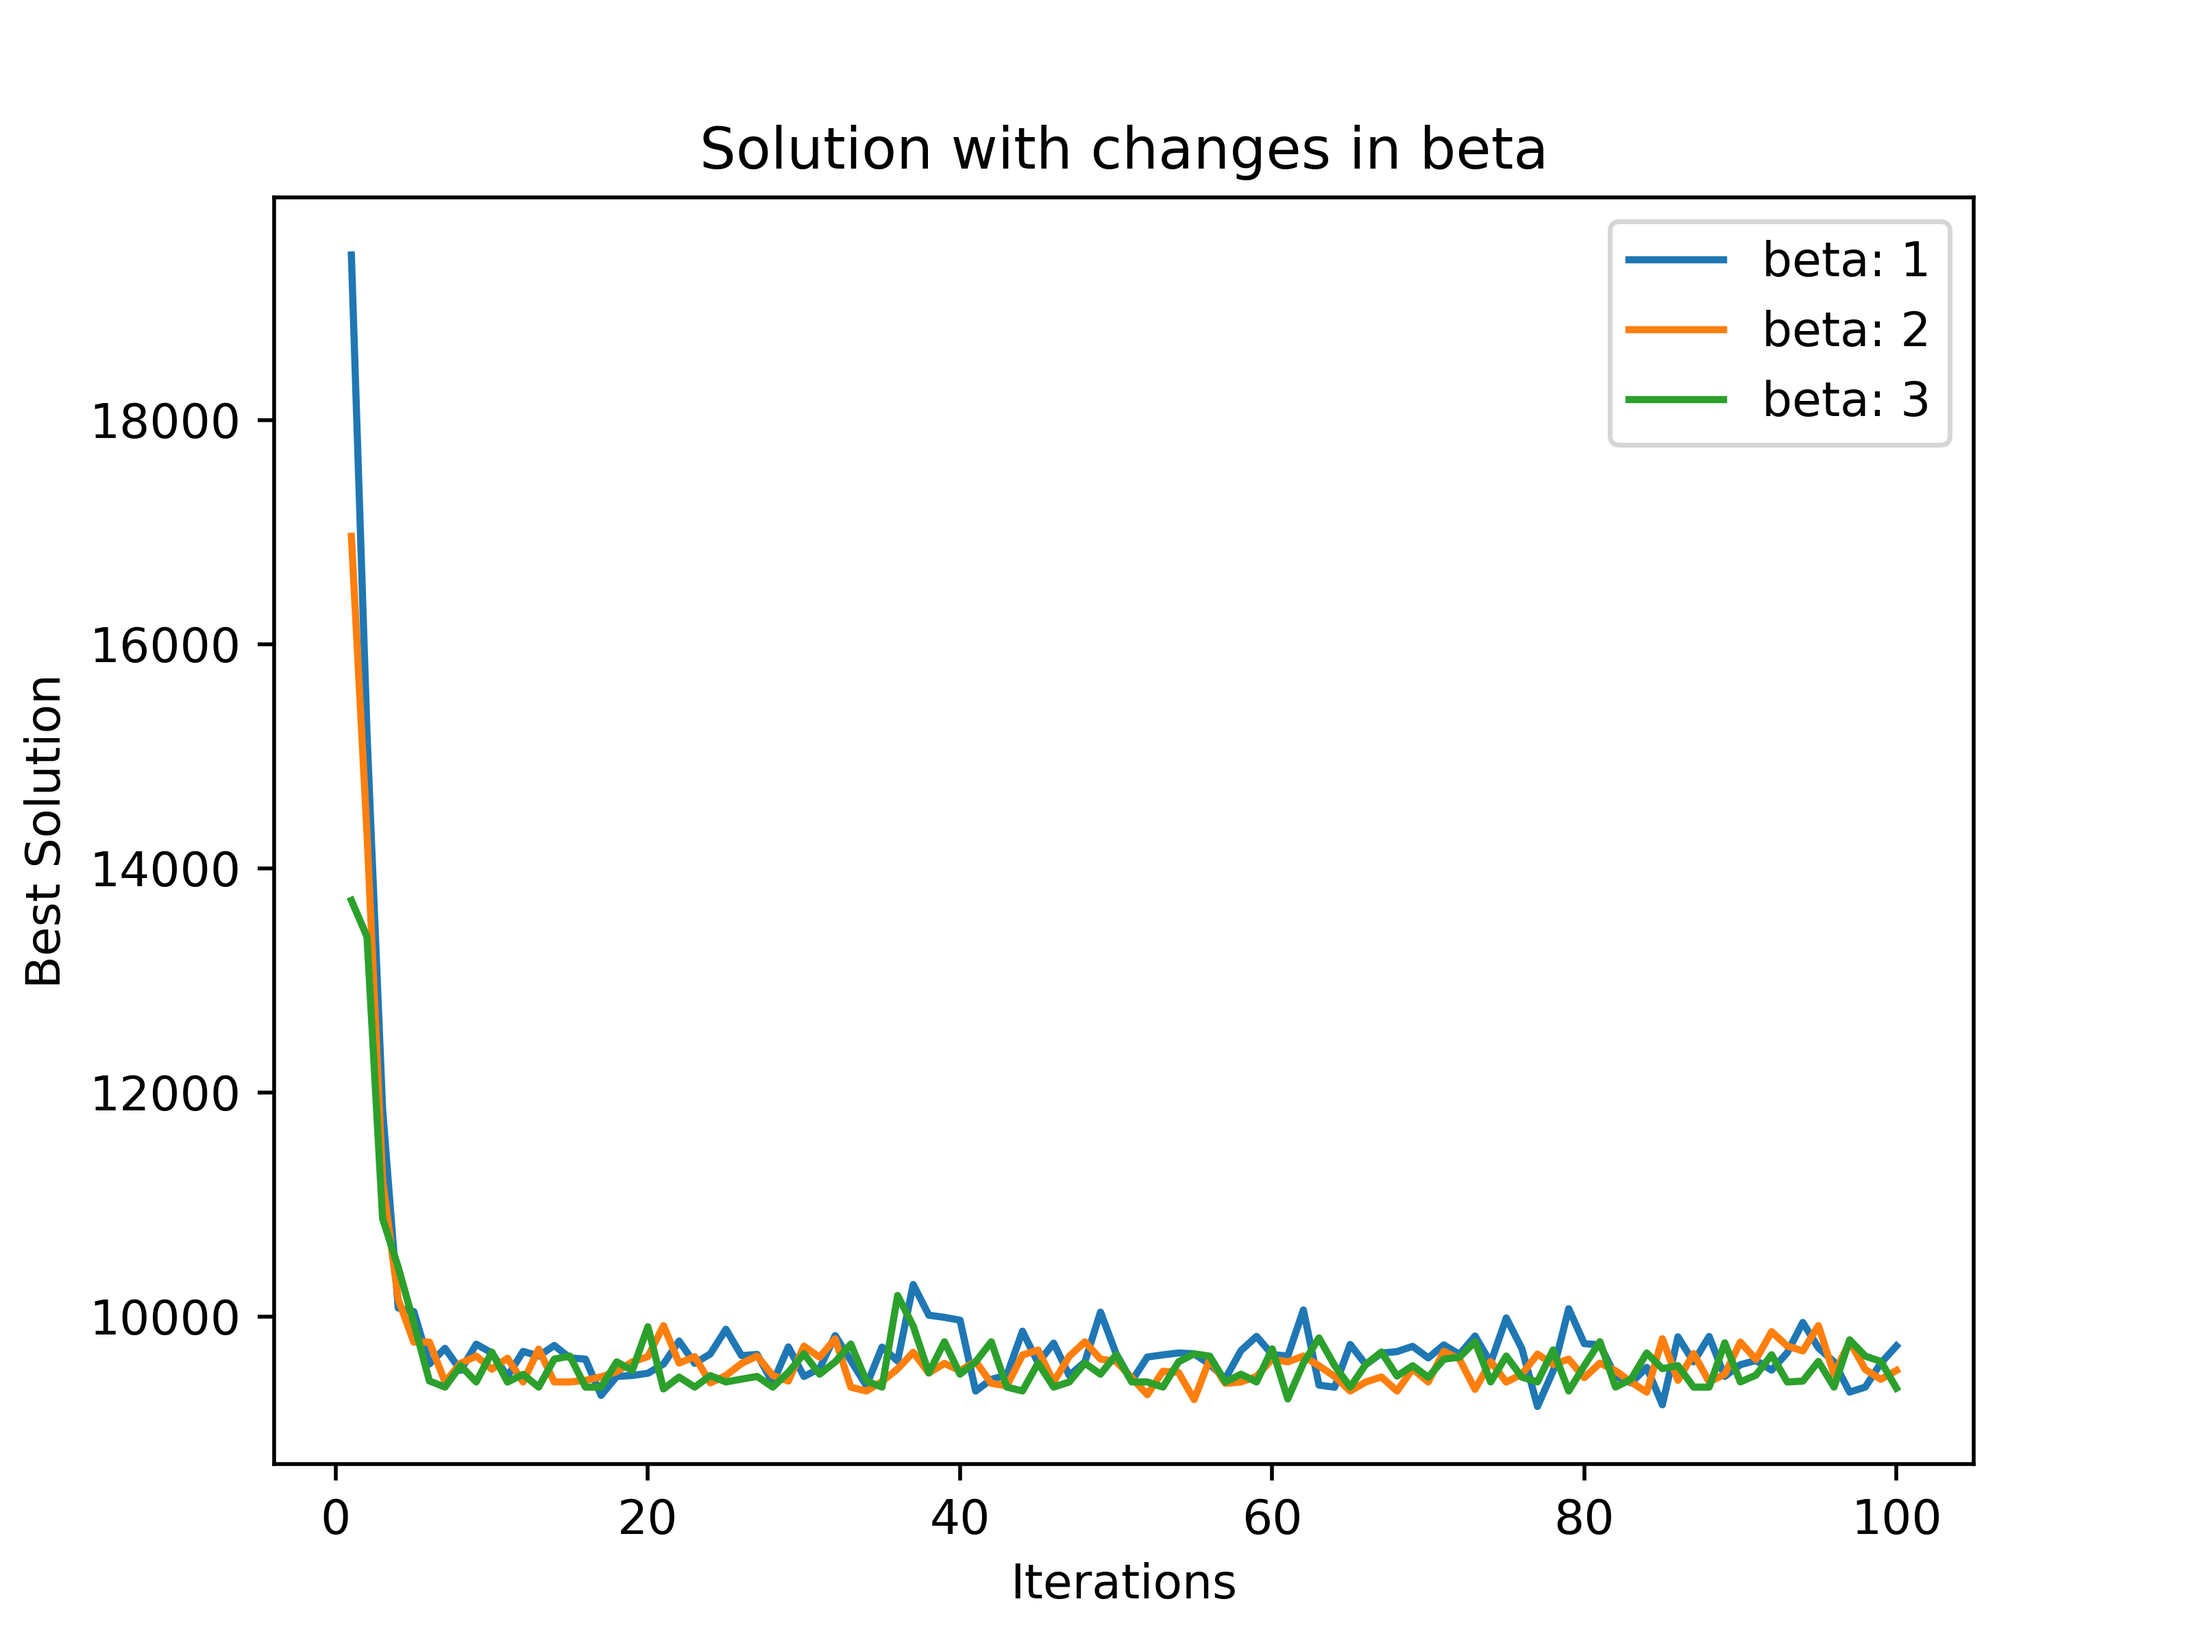
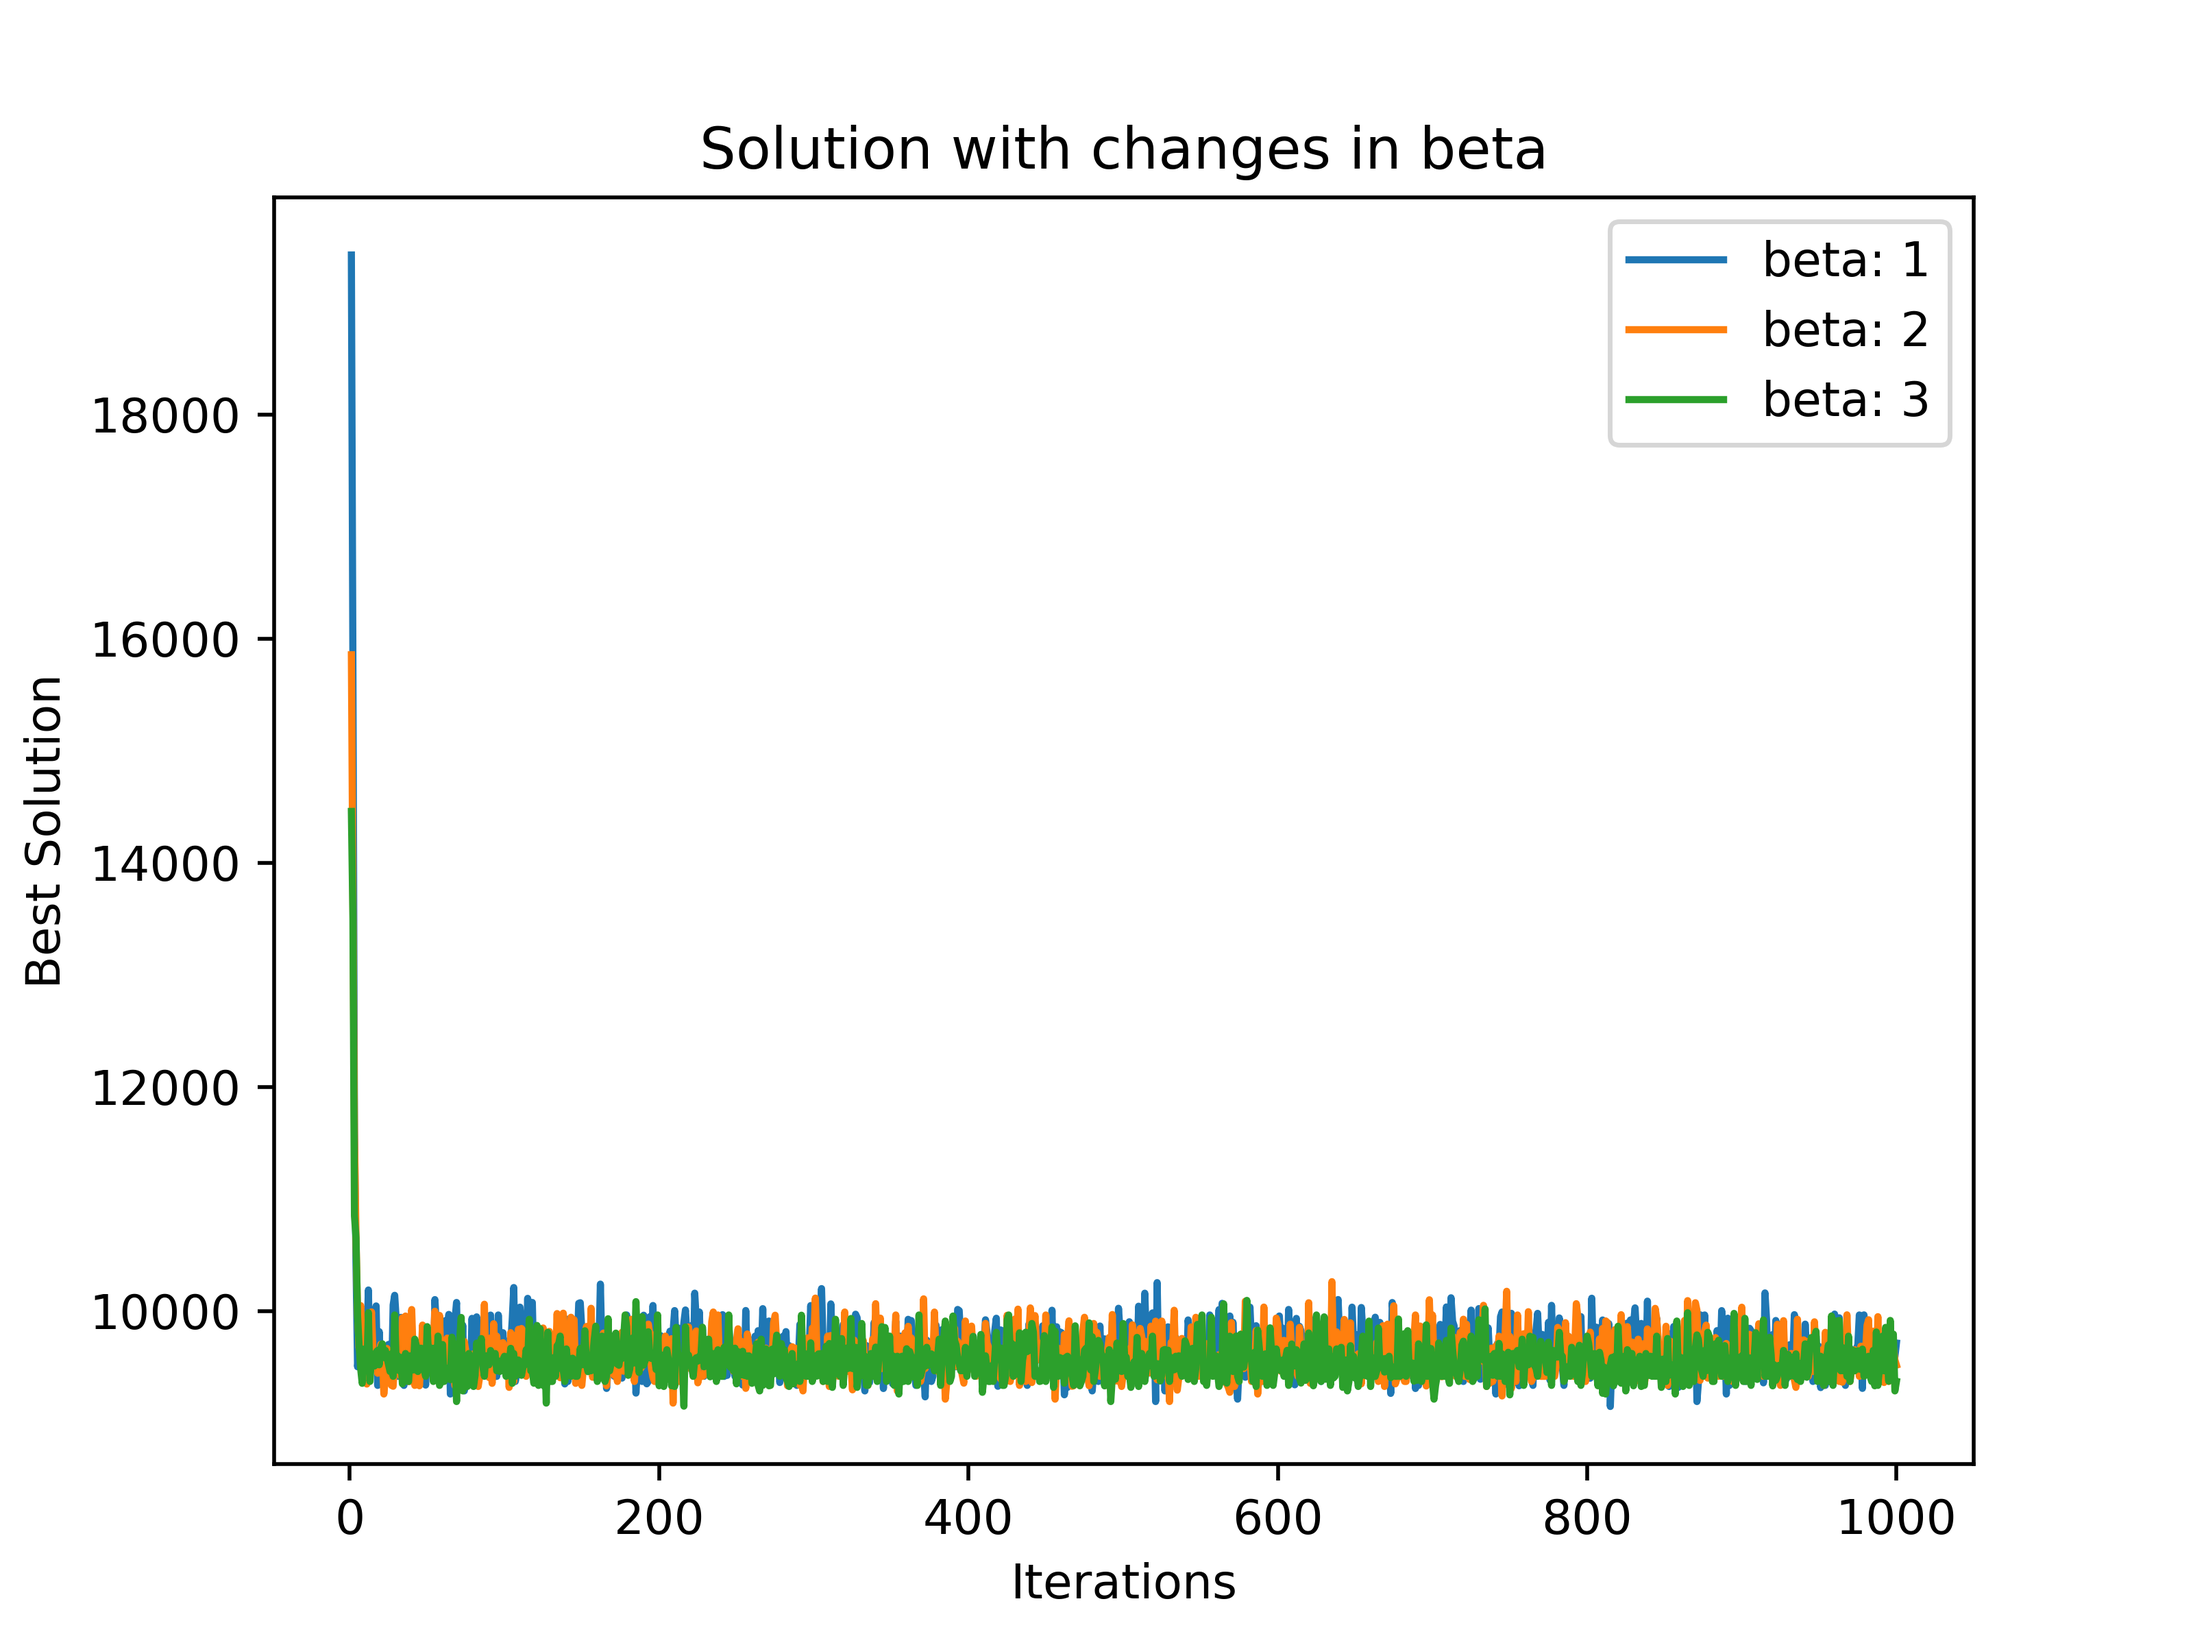
new graphs

diff --git a/assignments/a3/q2/ant_colony.py b/assignments/a3/q2/ant_colony.py
@@ -56,6 +56,7 @@ def online_simulation(
     pheromones = init_pheromone()
 
     best_solutions = []
+
     for x in termination_condition():
         best_solution = None
         ants = init_ants()
@@ -78,6 +79,7 @@ def online_simulation(
             ants[i].loop_back()
         best_solution = get_best_solution(ants, best_solution)
         best_solutions.append(best_solution)
+        print(best_solution.solution_length)
 
         pheromones = offline_pheromone_update(ants, pheromones)
     return best_solutions
@@ -188,7 +190,7 @@ def graph(title, data):
 
 if __name__ == "__main__":
     m = [100]*10
-    iteration_count = [100]*10
+    iteration_count = [1000]*10
     alpha = [2]*10
     beta = [2]*10
     q0 = [0.7]*10
@@ -276,3 +278,21 @@ if __name__ == "__main__":
         data.append(
             (labels[i], [ant.solution_length for ant in best_solutions]))
     graph(title, data)
+
+    # best_solutions = online_simulation(
+    #     init_pheromone,
+    #     init_ants(
+    #         m=29),
+    #     termination_condition(
+    #         iteration_count=100000),
+    #     state_transition(
+    #         alpha=1.0,
+    #         beta=5.0,
+    #         q0=0.85),
+    #     online_pheromone_update(
+    #         rho=0.6),
+    #     offline_pheromone_update(
+    #         rho=0.6),
+    #     get_best_solution,
+    #     True
+    # )
